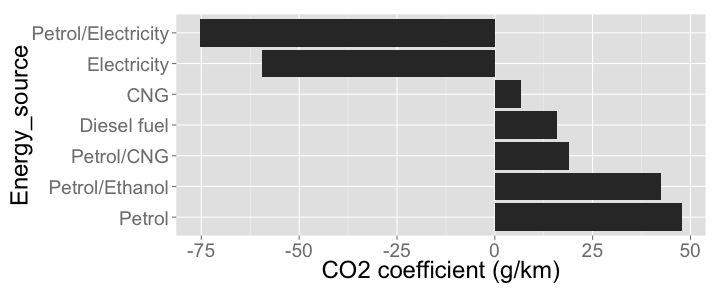
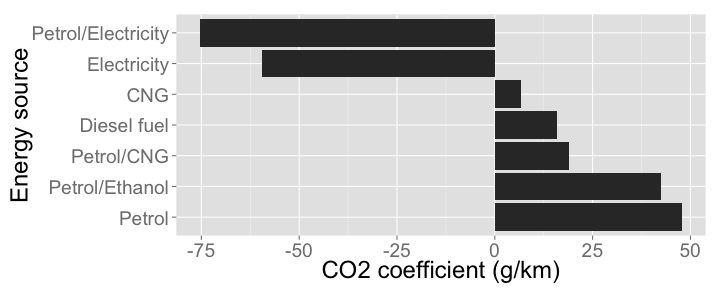
Small updates to the Trafi plots

Changed region(s): [[0.0, 0.1562, 0.0611, 0.7188]]

diff --git a/trafi.html b/trafi.html
@@ -273,7 +273,7 @@ H2Olocal &lt;- h2o.init()
 ## 
 ## Successfully connected to http://127.0.0.1:54321 
 ## R is connected to H2O cluster:
-##     H2O cluster uptime:         29 seconds 197 milliseconds 
+##     H2O cluster uptime:         2 minutes 12 seconds 
 ##     H2O cluster version:        2.6.0.11 
 ##     H2O cluster name:           H2O_started_from_R 
 ##     H2O cluster total nodes:    1 
@@ -489,7 +489,8 @@ names(wy.df)[2] &lt;- &quot;Weight_group&quot;
 wy.df &lt;- plyr::ddply(wy.df, &quot;Registering_year&quot;, transform, Proportion=value/sum(value))
 # Plot
 ggplot(wy.df, aes(x=Registering_year, y=Weight_group)) + geom_tile(aes(fill=Proportion)) + 
-  theme(legend.position=&quot;bottom&quot;) + labs(fill=&quot;Percentage of cars per year&quot;) + 
+  theme(legend.position=&quot;bottom&quot;) +
+  labs(x=&quot;Registering year&quot;, y=&quot;Weight (kg)&quot;, fill=&quot;Percentage of cars per year&quot;) + 
   guides(fill=guide_legend(label.position=&quot;bottom&quot;, keywidth=2, keyheight=2))
 </code></pre>
 
@@ -531,8 +532,8 @@ names(coefs.energysource) &lt;- as.character(energysource.codes$LYHYTSELITE[matc
 <pre><code class="r"># Plot the  the effect of force types
 en.df &lt;- data.frame(Energy_source=factor(names(coefs.energysource), levels=names(coefs.energysource)),
                     Coefficient=coefs.energysource)
-ggplot(en.df, aes(x=Energy_source, y=Coefficient)) + geom_bar(stat=&quot;identity&quot;) +
-  coord_flip() + ylab(&quot;CO2 coefficient (g/km)&quot;)
+ggplot(en.df, aes(x=Energy_source, y=Coefficient)) + geom_bar(stat=&quot;identity&quot;) + coord_flip() + 
+  labs(y=&quot;CO2 coefficient (g/km)&quot;, x=&quot;Energy source&quot;)
 </code></pre>
 
 <p><img src="figure/coef_plot_energy.png" alt="plot of chunk coef_plot_energy"/> </p>
@@ -544,8 +545,8 @@ ggplot(en.df, aes(x=Energy_source, y=Coefficient)) + geom_bar(stat=&quot;identit
 <pre><code class="r"># Plot the  the effect of force types
 man.df &lt;- data.frame(Manufacturer=factor(names(coefs.manufactures), levels=names(coefs.manufactures)),
                      Coefficient=coefs.manufactures)
-ggplot(man.df, aes(x=Manufacturer, y=Coefficient)) + geom_bar(stat=&quot;identity&quot;) +
-  coord_flip() + ylab(&quot;CO2 coefficient (g/km)&quot;)
+ggplot(man.df, aes(x=Manufacturer, y=Coefficient)) + geom_bar(stat=&quot;identity&quot;) + coord_flip() + 
+  labs(y=&quot;CO2 coefficient (g/km)&quot;, x=&quot;Energy source&quot;)
 </code></pre>
 
 <p><img src="figure/coef_plot_manufacturer.png" alt="plot of chunk coef_plot_manufacturer"/> </p>

diff --git a/trafi.md b/trafi.md
@@ -107,7 +107,7 @@ H2Olocal <- h2o.init()
 ## 
 ## Successfully connected to http://127.0.0.1:54321 
 ## R is connected to H2O cluster:
-##     H2O cluster uptime:         29 seconds 197 milliseconds 
+##     H2O cluster uptime:         2 minutes 12 seconds 
 ##     H2O cluster version:        2.6.0.11 
 ##     H2O cluster name:           H2O_started_from_R 
 ##     H2O cluster total nodes:    1 
@@ -344,7 +344,8 @@ names(wy.df)[2] <- "Weight_group"
 wy.df <- plyr::ddply(wy.df, "Registering_year", transform, Proportion=value/sum(value))
 # Plot
 ggplot(wy.df, aes(x=Registering_year, y=Weight_group)) + geom_tile(aes(fill=Proportion)) + 
-  theme(legend.position="bottom") + labs(fill="Percentage of cars per year") + 
+  theme(legend.position="bottom") +
+  labs(x="Registering year", y="Weight (kg)", fill="Percentage of cars per year") + 
   guides(fill=guide_legend(label.position="bottom", keywidth=2, keyheight=2))
 ```
 
@@ -390,8 +391,8 @@ Now we can study the coefficients produced by the regression model. They tell us
 # Plot the  the effect of force types
 en.df <- data.frame(Energy_source=factor(names(coefs.energysource), levels=names(coefs.energysource)),
                     Coefficient=coefs.energysource)
-ggplot(en.df, aes(x=Energy_source, y=Coefficient)) + geom_bar(stat="identity") +
-  coord_flip() + ylab("CO2 coefficient (g/km)")
+ggplot(en.df, aes(x=Energy_source, y=Coefficient)) + geom_bar(stat="identity") + coord_flip() + 
+  labs(y="CO2 coefficient (g/km)", x="Energy source")
 ```
 
 ![plot of chunk coef_plot_energy](figure/coef_plot_energy.png) 
@@ -405,8 +406,8 @@ Next we'll plot similarly the coeffecients for each car manufacturer.
 # Plot the  the effect of force types
 man.df <- data.frame(Manufacturer=factor(names(coefs.manufactures), levels=names(coefs.manufactures)),
                      Coefficient=coefs.manufactures)
-ggplot(man.df, aes(x=Manufacturer, y=Coefficient)) + geom_bar(stat="identity") +
-  coord_flip() + ylab("CO2 coefficient (g/km)")
+ggplot(man.df, aes(x=Manufacturer, y=Coefficient)) + geom_bar(stat="identity") + coord_flip() + 
+  labs(y="CO2 coefficient (g/km)", x="Energy source")
 ```
 
 ![plot of chunk coef_plot_manufacturer](figure/coef_plot_manufacturer.png) 
